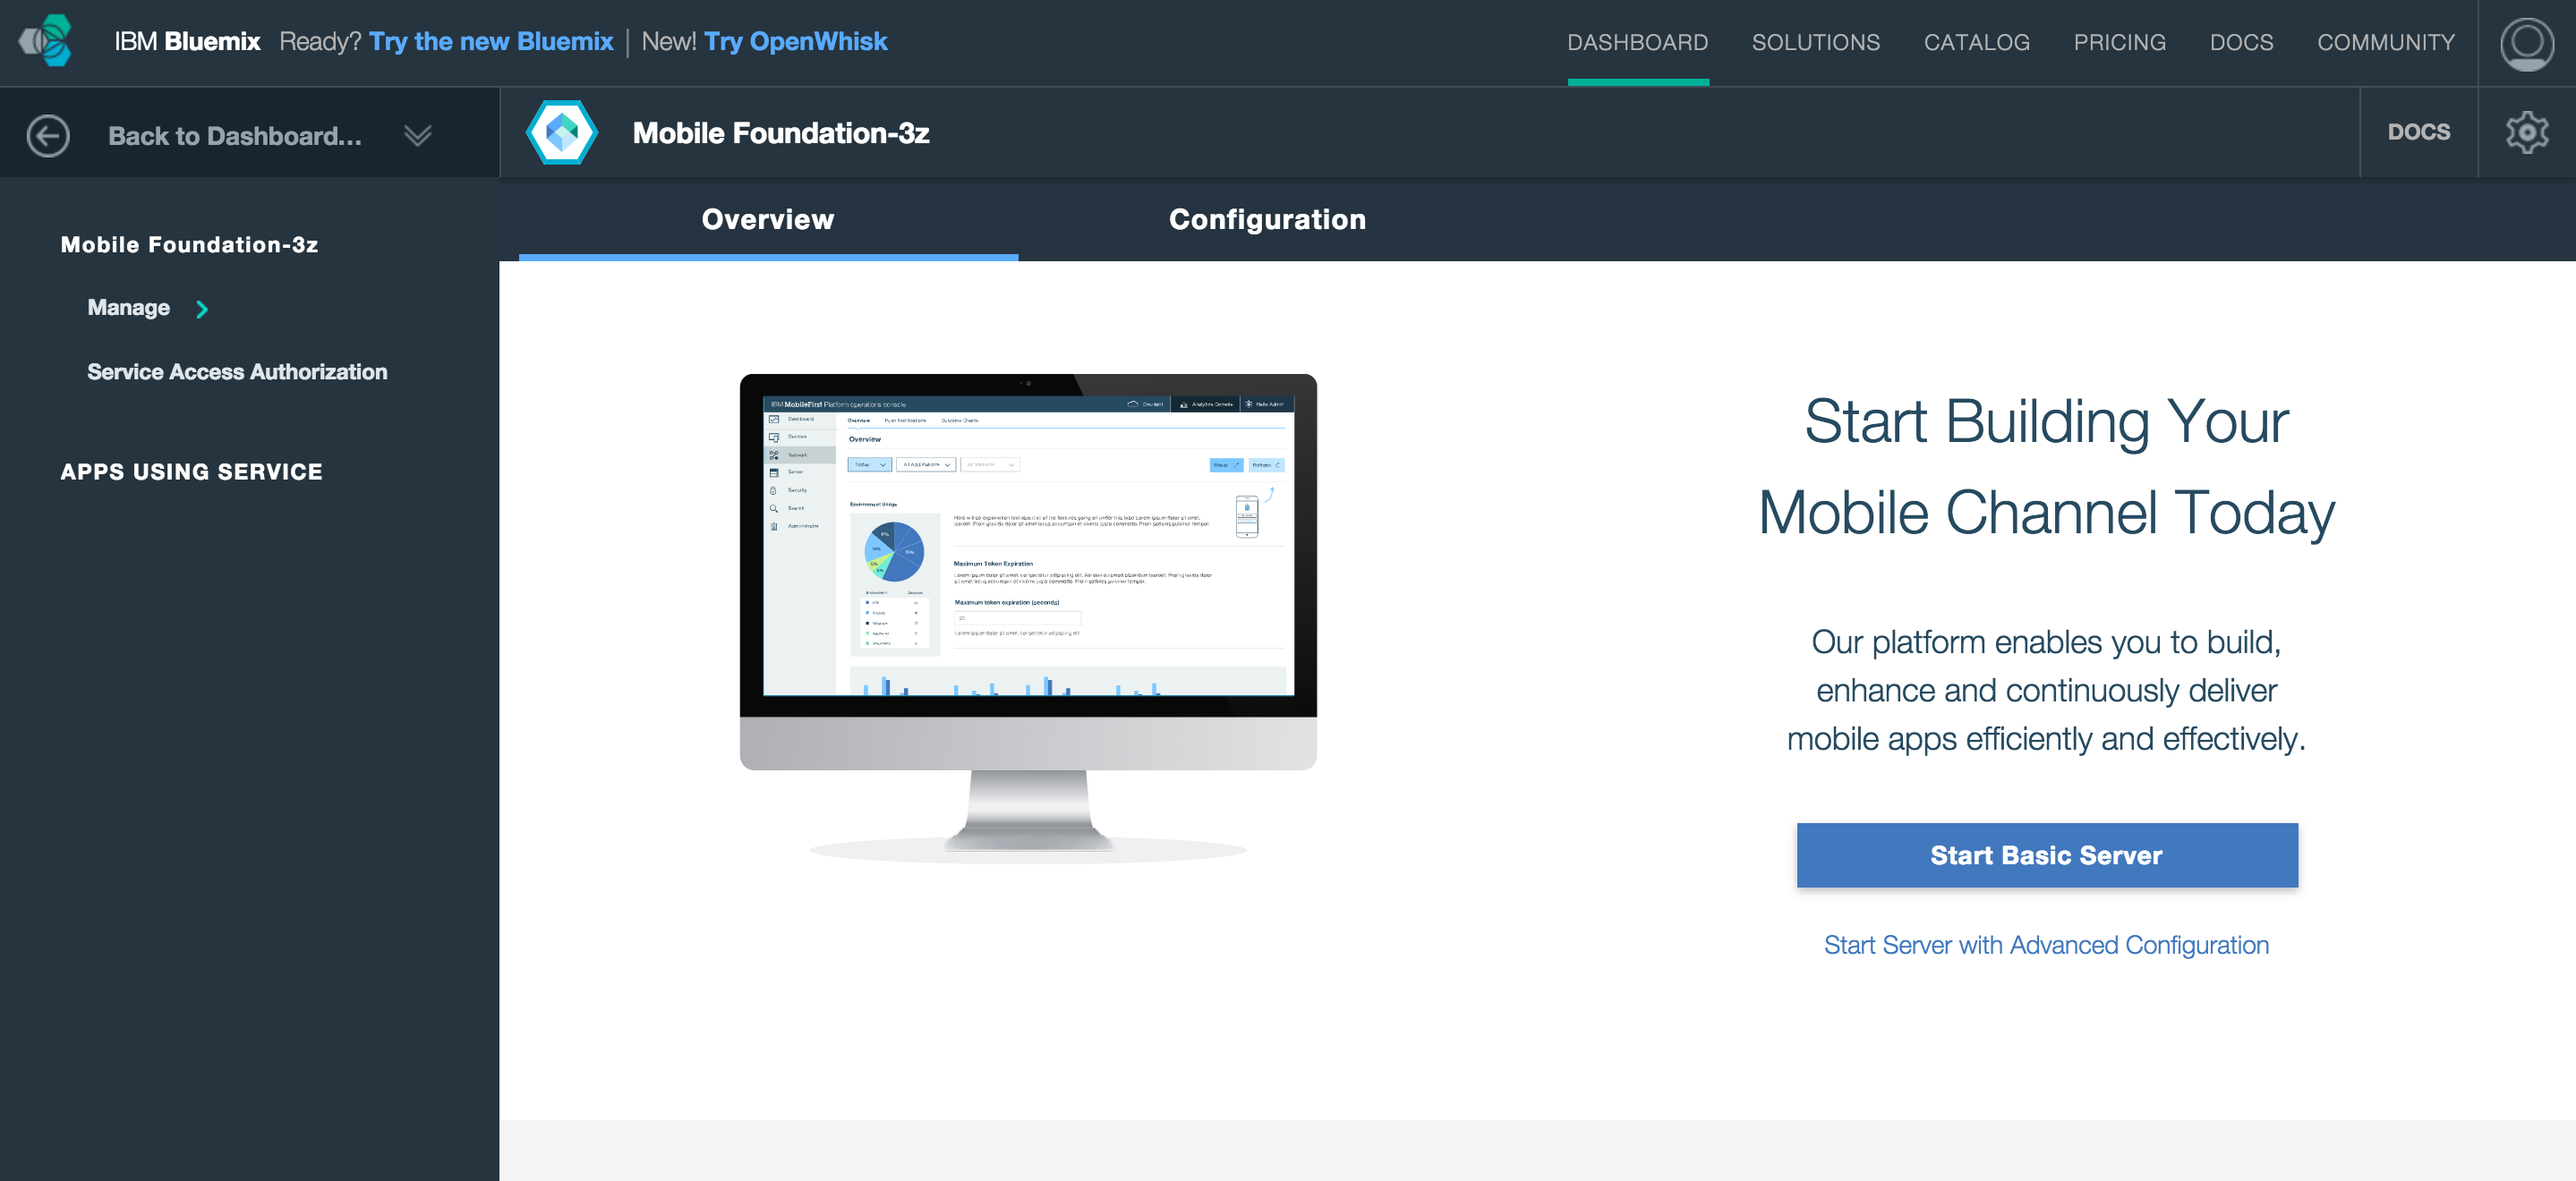
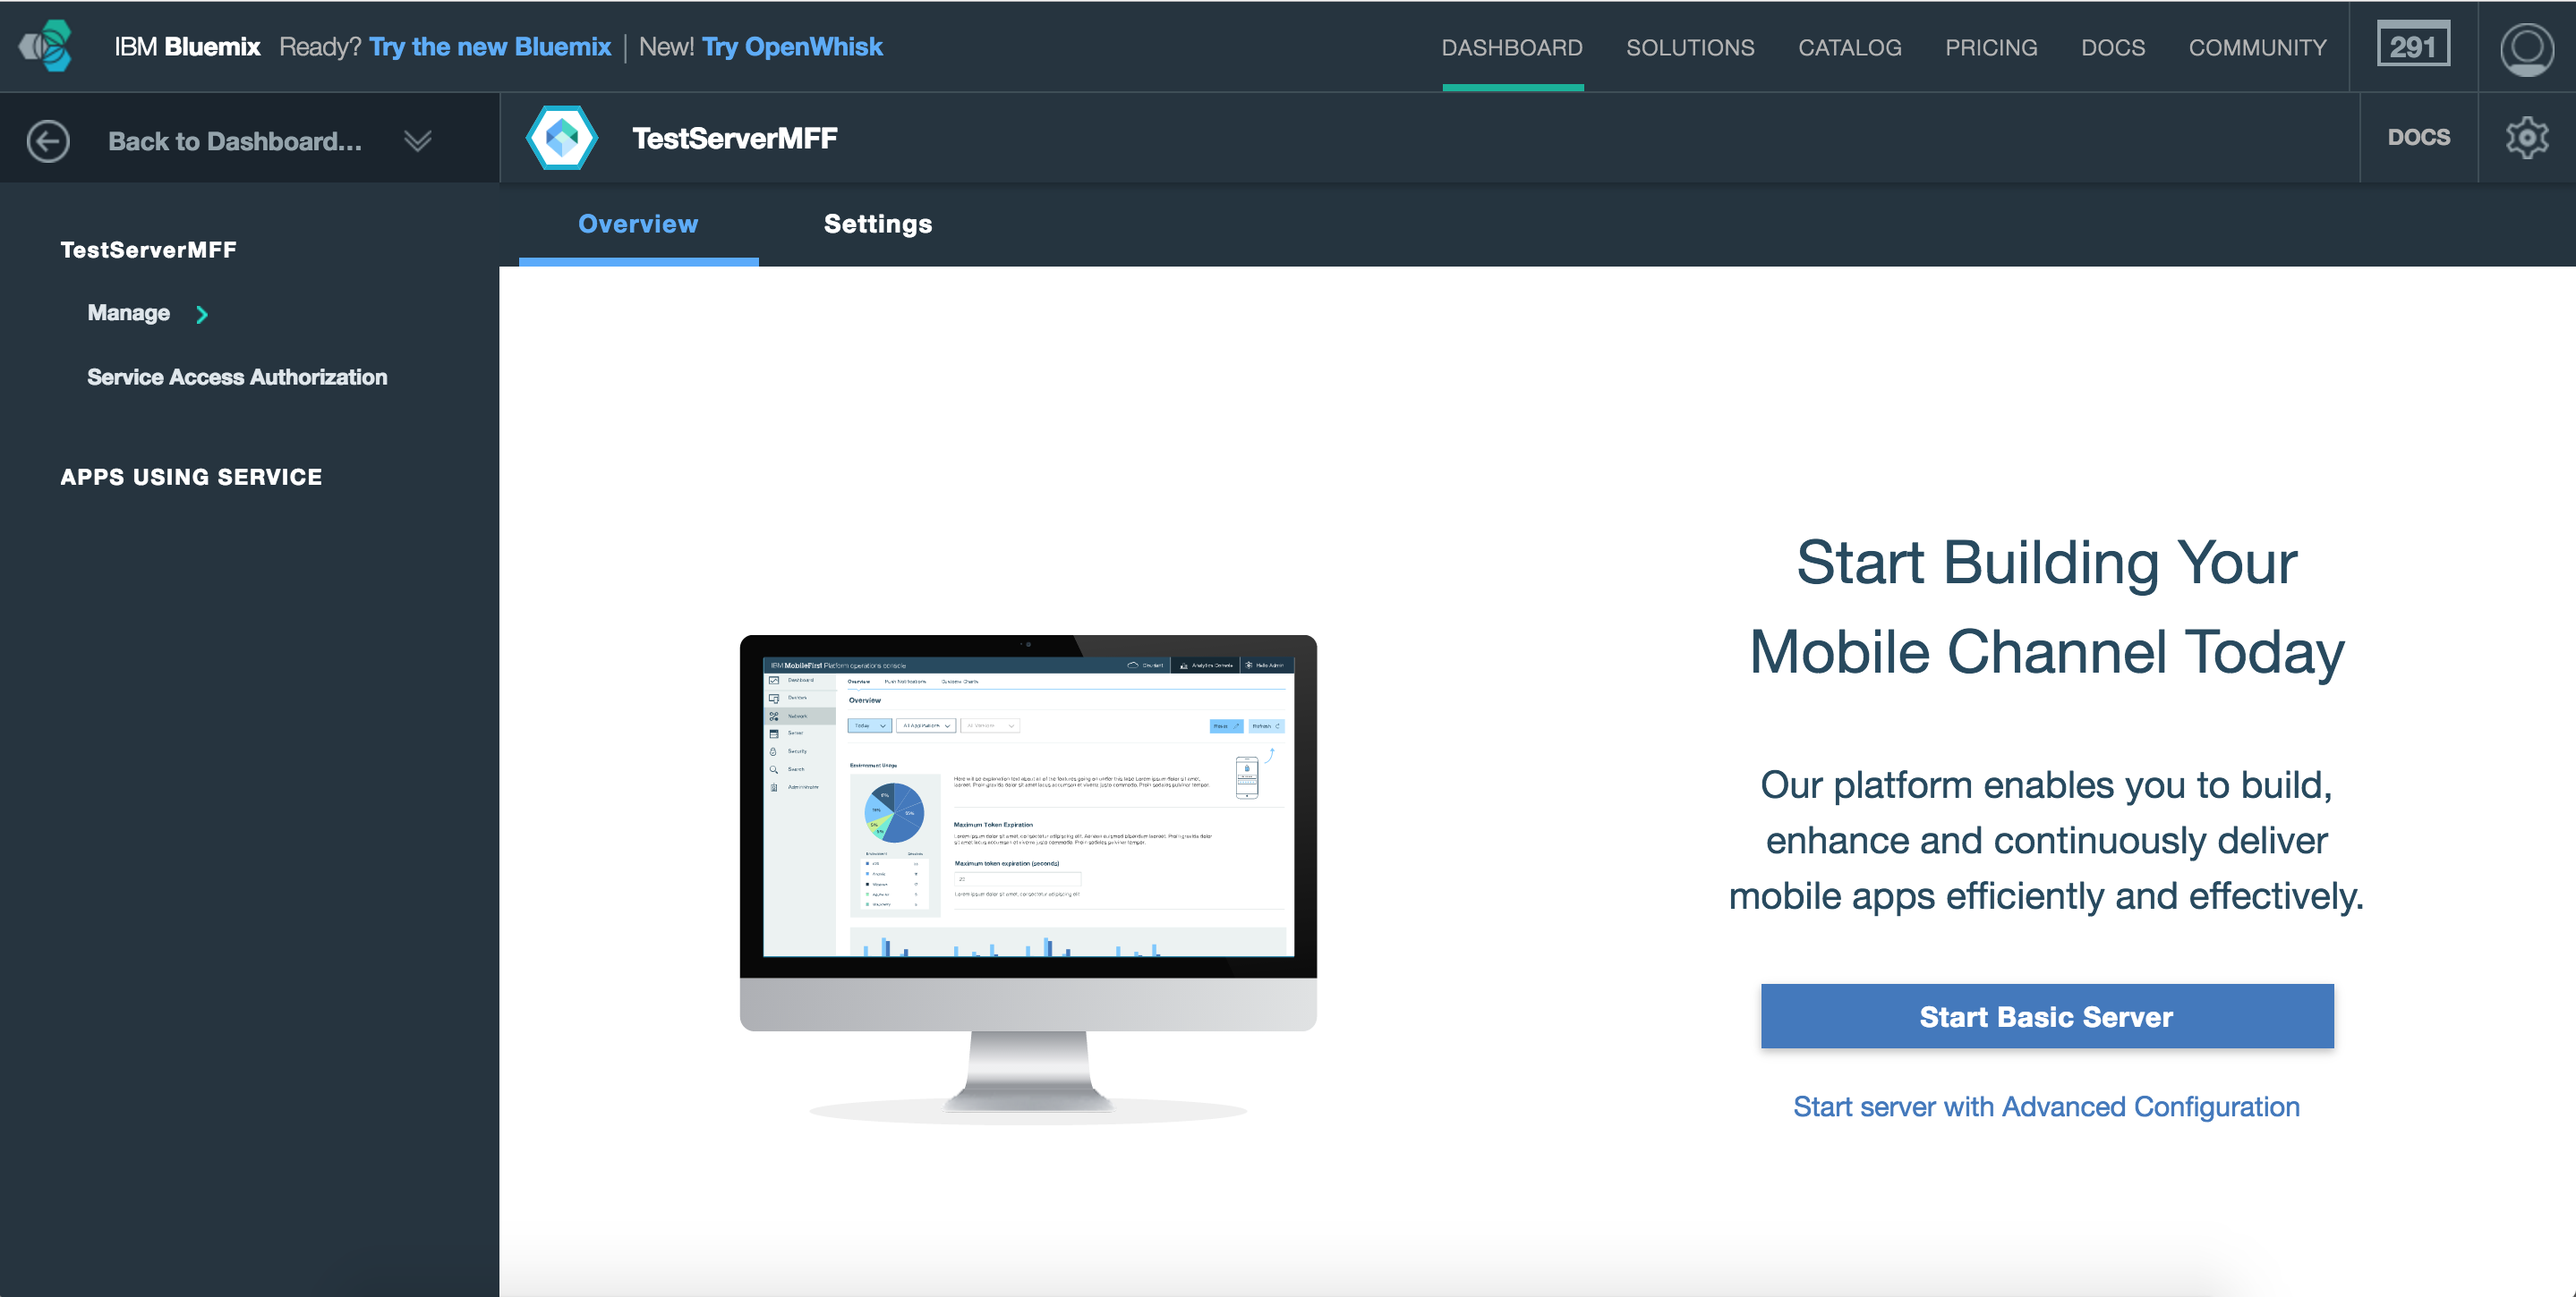
Add troubleshooting section

diff --git a/tutorials/en/foundation/8.0/bluemix/using-mobile-foundation/index.md b/tutorials/en/foundation/8.0/bluemix/using-mobile-foundation/index.md
@@ -12,7 +12,10 @@ Mobile Foundation is a **Bluemix service** that enables quick and easy stand-up 
 The Mobile Foundation service offers two plan options:
 
 1. **Developer**: This plan provisions a Mobile Foundation server as a Cloud Foundry app on a Liberty for Java runtime. The plan does not support the use of external databases or define multiple nodes *and is restricted to development and testing only*. The server instance allows you to register any number of Mobile application for development and testing.
-2. **Professional 1 Application**: This plan provisions a Mobile Foundation server in a scalable Cloud Foundry app on a Liberty for Java runtime. The plan also requires a database service, which is created and billed separately. The plan allows users to build and manage a single mobile application. A single mobile application can consist of multiple flavors, such as iOS, Android, Windows, and Mobile Web.
+
+    > **Note:** the Developer plan does not offer a persistent database, as such be sure to backup your configuration as explained [in the Troubleshooting section](#troubleshooting).
+    
+2. **Professional 1 Application**: This plan provisions a Mobile Foundation server in a scalable Cloud Foundry app on a Liberty for Java runtime. The plan also requires a dashDB database service, which is created and billed separately. The plan allows users to build and manage a single mobile application. A single mobile application can consist of multiple flavors, such as iOS, Android, Windows, and Mobile Web.
 
 > [See the service page on Bluemix.net](https://console.ng.bluemix.net/catalog/services/mobile-foundation/) for more information regarding billing.
 
@@ -23,7 +26,8 @@ The Mobile Foundation service offers two plan options:
 * [Server configuration](#server-configuration)
 * [Advanced server configuration](#advanced-server-configuration)
 * [Adding Analytics support](#adding-analytics-support)
-* [Applying MobileFirst Server Fixes ](#applying-mobilefirst-server-fixes)
+* [Applying MobileFirst Server Fixes](#applying-mobilefirst-server-fixes)
+* [Troubleshooting](#troubleshooting)
 * [Further reading](#further-reading)
 
 ## Setting up the Mobile Foundation Service
@@ -33,7 +37,7 @@ To set up the available plans, first follow these steps:
 
 2. From the left sidebar, tick the **Mobile** checkbox under **Services**. Then, click on the **Mobile Foundation** tile to begin the service creation process.
 
-    ![Image of Mobile Foundation setup](service-page.png)
+    <img class="gifplayer" alt="Creating a Mobile Foundation service instance" src="service-creation.png"/>
 
 3. Select a **space** to use and optionally set a **Service name**.
 4. Select the desired plan option, then click **Create**.
@@ -42,9 +46,11 @@ To set up the available plans, first follow these steps:
 
 1. Start the MobileFirst Server.
     - You can either keep the server configuration at its basic level and click on **Start Basic Server**, or
-    - Update the server configuration in the [Configuration tab](#advanced-server-configuration), and click on **Start advanced server**.
+    - Update the server configuration in the [Settings tab](#advanced-server-configuration), and click on **Start advanced server**.
 
-    During this step a Cloud Foundry app is generated for the Mobile Foundation service, and the MobileFirst Foundation environment is being initialized. This takes between 5 to 10 minutes.
+    During this step a Cloud Foundry app is generated for the Mobile Foundation service, and the MobileFirst Foundation environment is being initialized. This step can take between 5 to 10 minutes.
+
+2. With the instance ready, you can now [use the service](#using-the-mobile-foundation-service).
 
     ![Image of Mobile Foundation setup](overview-page.png)
 
@@ -54,11 +60,13 @@ To set up the available plans, first follow these steps:
 
     ![Image of Mobile Foundation setup](create-dashdb-instance.png)
 
-3. Start the MobileFirst Server.
+2. Start the MobileFirst Server.
     - You can either keep the server configuration at its basic level and click on **Start Basic Server**, or
-    - Update the server configuration in the [Configuration tab](#advanced-server-configuration), and click on **Start advanced server**.
+    - Update the server configuration in the [Settings tab](#advanced-server-configuration), and click on **Start advanced server**.
 
-    During this step a Cloud Foundry app is generated for the Mobile Foundation service, and the MobileFirst Foundation environment is being initialized. This takes between 5 to 10 minutes.
+    During this step a Cloud Foundry app is generated for the Mobile Foundation service, and the MobileFirst Foundation environment is being initialized. This step can take between 5 to 10 minutes.
+
+3. With the instance ready, you can now [use the service](#using-the-mobile-foundation-service).
 
     ![Image of Mobile Foundation setup](overview-page.png)
 
@@ -70,7 +78,7 @@ With the MobileFirst Server now running, you are presented with the following Da
 Click on **Add Analytics** to add MobileFirst Foundation Operational Analytics support to your server instance.
 Learn more in the [Adding Analytics support](#adding-analytics-support) section.
 
-Click on **Launch Console** to open the MobileFirst Operations Console.  The default user name is "admin" and the password can be revealed by clicking on the "eye" icon.
+Click on **Launch Console** to open the MobileFirst Operations Console. The default user name is "admin" and the password can be revealed by clicking on the "eye" icon. 
 
 ![Image of Mobile Foundation setup](dashboard.png)
 
@@ -82,7 +90,7 @@ The basic server instance consists of:
 * 2GB storage capacity
 
 ### Advanced server configuration
-Through the **Configuration** tab, you can further customize the server instance with:
+Through the **Settings** tab, you can further customize the server instance with:
 
 * Varying node, memory, and storage combinations
 * MobileFirst Operations Console admin password
@@ -97,19 +105,32 @@ Through the **Configuration** tab, you can further customize the server instance
 ![Image of Mobile Foundation setup](advanced-server-configuration.png)
 
 ## Adding Analytics support
-You can add MobileFirst Foundation Operational Analytics support to your Mobile Foundation service instance by clicking on **Add Analytics** from the service's Dashboard page.  
-This action provisions an IBM Container with an instance of MobileFirst Foundation Operational Analytics server.
+You can add MobileFirst Foundation Operational Analytics support to your Mobile Foundation service instance by clicking on **Add Analytics** from the service's Dashboard page. This action provisions an IBM Container with an instance of MobileFirst Foundation Operational Analytics server.
 
-When using the **Developer** plan this action will also automatically hook the Analytics service instance to your MobileFirst Server instance.  
-When using the **Proffessional 1 Application** plan this action will require additional input from you to select: amount of available Nodes, available Memory and a storage volume.
+* When using the **Developer** plan this action will also automatically hook the Analytics service instance to your MobileFirst Server instance.  
+* When using the **Proffessional 1 Application** plan this action will require additional input from you to select: amount of available Nodes, available Memory and a storage volume.
 
 Once the operation finishes, reload the MobileFirst Operations Console page in your browser to access the Analytics console.  
 
 > Learn more about analytics in the [MobileFirst Operational Analytics category](../../analytics).
 
 ## Applying MobileFirst Server Fixes
-Updates to the Mobile Foundation Bluemix services are applied automatically without a need for human interverntion, other than agreeing to perform the update.  
-When an update is availabe, a banner is displayed in the service's Dashboard page with instructions and action buttons.
+Updates to the Mobile Foundation Bluemix services are applied automatically without a need for human interverntion, other than agreeing to perform the update. When an update is availabe, a banner is displayed in the service's Dashboard page with instructions and action buttons.
+
+## Troubleshooting
+The Developer plan does not offer a persistent database, which could cause at times loss of data. To quickly onboard in such cases, be sure to follow these best practices:
+
+* Every time you make any changes server-side changes, such as deploying an adapter, updating a property value via the console or perform any security configuration (scope-mapping and alike), run the following from the command-line to download your configuration to a .zip file:
+
+    ```bash
+    $curl -X GET -u admin:admin -o export.zip http://<App Name>.mybluemix.net/mfpadmin/management-apis/2.0/runtimes/mfp/export/all
+    ```
+
+* In case you recreate your server or lose your configuration, run the following from the command-line to import the configuration to the server:
+
+    ```bash
+    $curl -X POST -u admin:admin -F file=@./export.zip http://<App Name>.mybluemix.net/mfpadmin/management-apis/2.0/runtimes/mfp/deploy/multi
+    ```
 
 ## Further reading
 Now that the MobileFirst Server instance is up and running:
